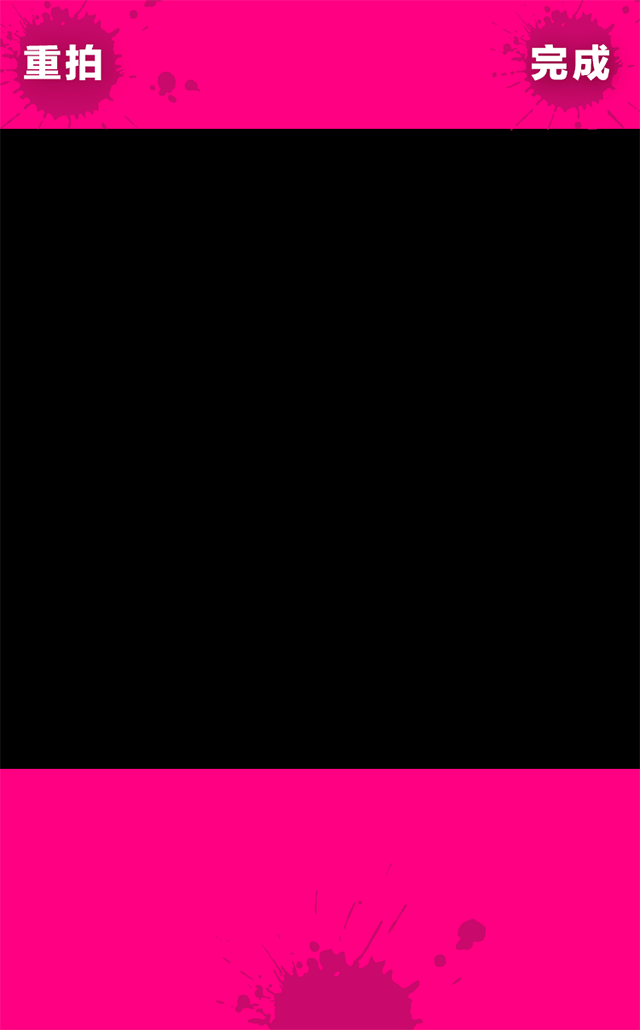
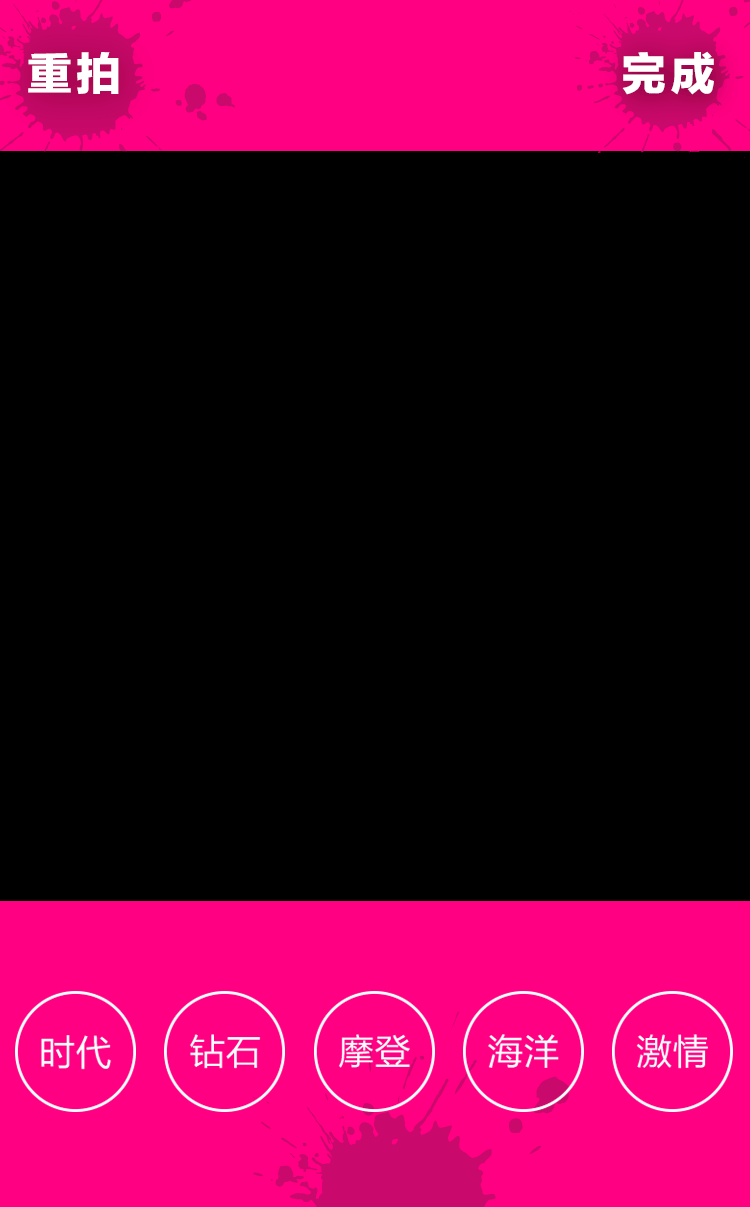
update

diff --git a/src/app/illumirun-201501/script/mod/canvas/body.tpl.html b/src/app/illumirun-201501/script/mod/canvas/body.tpl.html
@@ -6,16 +6,16 @@ var app = require('app');
 <!-- include "body.scss" -->
 
 <div class="body-inner">
-	<canvas width="164" height="292">
+	<canvas width="328" height="584">
 		Your browser does not support HTML5 Canvas.
 	</canvas>
 	<a class="img-btn btn-reset" href="/view/home">重新选图</a> 
 	<button class="img-btn btn-confirm">确定使用</button> 
 	<div class="frame-btns">
-		<button class="frame-btns__btn" data-frame="shidai">时代</button>
-		<button class="frame-btns__btn" data-frame="zuanshi">钻石</button>
-		<button class="frame-btns__btn" data-frame="modeng">摩登</button>
-		<button class="frame-btns__btn" data-frame="haiyang">海洋</button>
-		<button class="frame-btns__btn" data-frame="jiqing">激情</button>
+		<button class="img-btn frame-btns__btn" data-frame="shidai">时代</button>
+		<button class="img-btn frame-btns__btn" data-frame="zuanshi">钻石</button>
+		<button class="img-btn frame-btns__btn" data-frame="modeng">摩登</button>
+		<button class="img-btn frame-btns__btn" data-frame="haiyang">海洋</button>
+		<button class="img-btn frame-btns__btn" data-frame="jiqing">激情</button>
 	</div>
 </div>

diff --git a/src/app/illumirun-201501/script/mod/home/dialog.scss b/src/app/illumirun-201501/script/mod/home/dialog.scss
@@ -1,39 +1,19 @@
 .dialog {
+	background-image: url(../../../image/dialog-bg.png);
+	background-position: left top;
+	background-repeat: no-repeat;
+	background-size: cover;
 	position: absolute;
-	width: 300px;
-	top: 120px;
+	width: 288px;
+	height: 270px;
+	top: 25%;
 	left: 50%;
-	margin-left: -150px;
-	border-radius: 10px;
-	border: solid 1px #fff;
-	background-color: #ff0082;
-	color: #fff;
-	.dialog__content {
-		padding: 10px;
-		text-align: center;
-	}
+	margin-left: -144px;
 	.dialog__close {
-		width: 23px;
-		height: 23px;
-		border-radius: 12px;
-		border: solid 1px #fff;
-		text-indent: -9999px;
+		width: 27px;
+		height: 27px;
 		position: absolute;
-		bottom: 5px; 
-		right: 5px;
-		&:before, &:after {
-			content: "";
-			position: absolute;
-			width: 19px;
-			height: 1px;
-			top: 10px;
-			left: 1px;
-			background-color: #fff;
-			display: block;
-			transform: rotate(45deg);
-		}
-		&:after {
-			transform: rotate(-45deg);
-		}
+		bottom: 11px; 
+		right: 14px;
 	}
 }

diff --git a/src/app/illumirun-201501/script/mod/canvas/body.scss b/src/app/illumirun-201501/script/mod/canvas/body.scss
@@ -8,40 +8,37 @@ body.sb-mod--canvas {
 	background-size: cover;
 
 	canvas {
-		margin-top: 78px;
-		margin-left: 78px
+		position: absolute;
+		top: 14%;
+		left: 24%;
+		width: 52%; 
+		height: 58%;
 	}
 
-	.img-btn {
-		position: absolute;
-	}
 	.btn-reset {
-		width: 64px;
-		height: 64px;
+		width: 20%;
+		height: 12.4%;
 		left: 0;
 		top: 0;
+		position: absolute;
 	}
 	.btn-confirm {
-		width: 64px;
-		height: 64px;
+		width: 20%;
+		height: 12.4%;
 		right: 0;
 		top: 0;
+		position: absolute;
 	}
 	.frame-btns {
-		margin-top: 20px;
 		text-align: center;
+		position: absolute;
+		left: 0;
+		bottom: 8%;
+		height: 10%;
+		width: 100%;
 	}
 	.frame-btns__btn {
-		width: 52px;
-		height: 52px;
-		border-radius: 26px;
-		border: solid 1px #fff;
-		line-height: 50px;
-		font-size: 16px;
-		color: #fff;
-		background-color: transparent;
-		padding: 0;
-		text-align: center;
-		margin: 0 5px;
+		width: 20%;
+		height: 100%;
 	}
 }

diff --git a/src/app/illumirun-201501/script/mod/home/body.scss b/src/app/illumirun-201501/script/mod/home/body.scss
@@ -5,12 +5,11 @@
 	background-size: cover;
 
 	.upload-btn {
-		margin: 0 auto;
-		margin-top: 290px;
-		margin-bottom: 20px;
-		width: 110px;
-		height: 110px;
-		position: relative;
+		width: 33%;
+		height: 21%;
+		left: 34%;
+		top: 60%;
+		position: absolute;
 		overflow: hidden;
 	}
 	.upload-btn input {
@@ -24,12 +23,11 @@
 		overflow: hidden;
 		opacity: 0;
 	}
-	.rules {
-		text-align: center;
-	}
-	.rules__link {
-		color: #ff0082;
-		text-decoration: underline;
-		font-size: 22px;
+	.btn-rules {
+		width: 33%;
+		height: 6%;
+		left: 34%;
+		top: 84%;
+		position: absolute;
 	}
 }

diff --git a/src/app/illumirun-201501/index.src.html b/src/app/illumirun-201501/index.src.html
@@ -40,13 +40,10 @@ require(['jquery', 'app', 'skateboard'], function($, app, Skateboard) {
 		}
 	}
 
-	//centralize the content
+	//adjust
 	var wrapper = $('.page-wrapper');
-	wh = $(window).height();
-	bh = wrapper.height();
-	if(wh > bh) {
-		wrapper.css('marginTop', ((wh - bh) / 2) + 'px');
-	}
+	ww = $(window).width();
+	wrapper.height(ww * 604 / 375);
 
 	$.extend(G.MD5_MAP, %{{md5map.illumirun-201501}}%);
 

diff --git a/src/app/illumirun-201501/style/base.css b/src/app/illumirun-201501/style/base.css
@@ -21,8 +21,8 @@ body {
 }
 
 .page-wrapper {
-	width: 320px;
-	height: 515px;
+	width: 100%;
+	height: 100%;
 	margin: 0 auto;
 	position: relative;
 	overflow: hidden;

diff --git a/src/app/illumirun-201501/script/mod/motion/body.scss b/src/app/illumirun-201501/script/mod/motion/body.scss
@@ -1,0 +1,7 @@
+.sb-mod--motion .preview {
+	padding: 10px;
+	text-align: center;
+	img {
+		width: 164px;
+	}
+}
